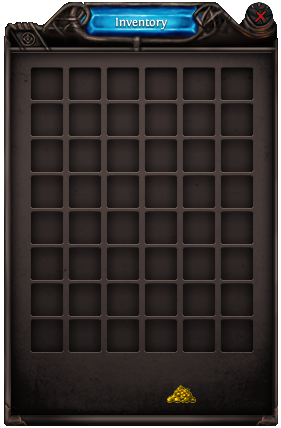
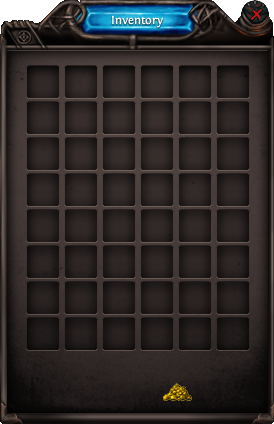
More UI

diff --git a/client/client.js b/client/client.js
@@ -75,6 +75,7 @@ window.onload = window.onresize = function () {
 
     canvas.width = window.innerWidth;
     canvas.height = window.innerHeight;
+    
     WIDTH = window.innerWidth;
     HEIGHT = window.innerHeight;
     chatText.style.width = -2+WIDTH/4;
@@ -154,6 +155,10 @@ Img.bullet = new Image();
 Img.bullet.src = '/client/img/bullet.png';
 Img.bottom = new Image();
 Img.bottom.src = '/client/img/BottomBar.png'
+Img.inventory = new Image();
+Img.inventory.src = '/client/img/Inventory.png'
+Img.spell = new Image();
+Img.spell.src = '/client/img/Spells.png'
 
 Img.map = {};
 Img.map['field'] = new Image();
@@ -481,6 +486,7 @@ socket.on('changeMapOthers', function (data) {
 //#region UI
 
 
+
 var drawUI = function(){
     let ratio = WIDTH/Img.bottom.width*0.5;
     let health = Player.list[selfId].hp/Player.list[selfId].hpMax;
@@ -509,6 +515,8 @@ setInterval(function () {
     drawMap();
     drawScore();
     drawUI();
+    InventoryUI();
+    SpellUI();
     for (var i in Player.list)
         Player.list[i].update();
     for (var i in Bullet.list)
@@ -546,8 +554,21 @@ document.onkeydown = function (event) {
             socket.emit('keyPress', { inputId: 'left', state: true });
         else if (event.keyCode === 87 || event.keyCode === 32) // w
             socket.emit('keyPress', { inputId: 'up', state: true });
-        else if (event.keyCode === 67) // c
-        socket.emit('keyPress', { inputId: 'attack', state: true });
+        else if (event.keyCode === 73) // c
+        {
+            if(document.getElementById("inventoryDiv").style.display == "inline-block")
+            document.getElementById("inventoryDiv").style.display = "none";
+            else
+            document.getElementById("inventoryDiv").style.display = "inline-block";
+        }
+        else if (event.keyCode === 79) // c
+        {
+            if(document.getElementById("spellDiv").style.display == "inline-block")
+            document.getElementById("spellDiv").style.display = "none";
+            else
+            document.getElementById("spellDiv").style.display = "inline-block";
+        }
+
         else if (event.keyCode === 13) {
             if (signedin == false)
             signDivSignIn.onclick();
@@ -574,17 +595,20 @@ document.onkeyup = function (event) {
 
 }
 
-document.onmousedown = function (event) {
+canvas.onmousedown = function (event) {
     socket.emit('keyPress', { inputId: 'attack', state: true });
 }
 document.onmouseup = function (event) {
     socket.emit('keyPress', { inputId: 'attack', state: false });
 }
+
+mousex = 0;
+mousey = 0;
 document.onmousemove = function (event) {
     if (signedin === true) {
-        var x = cam_x - Player.list[selfId].x + event.clientX - 8;
-        var y = cam_y - Player.list[selfId].y + event.clientY - 8;
-        var angle = Math.atan2(y, x) / Math.PI * 180;
+        mousex = cam_x - Player.list[selfId].x + event.clientX - 8;
+        mousey = cam_y - Player.list[selfId].y + event.clientY - 8;
+        var angle = Math.atan2(mousey, mousex) / Math.PI * 180;
         socket.emit('keyPress', { inputId: 'mouseAngle', state: angle });
     }
 }

diff --git a/client/SpellUI.js b/client/SpellUI.js
@@ -1,0 +1,49 @@
+var spell_canvas = document.getElementById("spellCanvas");
+var spellDiv = document.getElementById("spellDiv");
+var hold2_on = false;
+var hold2x = 0;
+var hold2y = 0;
+var spell_x_old = 0;
+var spell_y_old = 0;
+var spell_x = 274;
+var spell_y = 0;
+SpellUI = function(){
+    var ctx_spell = spell_canvas.getContext("2d");
+    ctx_spell.clearRect(0,0,500,500)
+    ctx_spell.drawImage(Img.spell,0,0);
+}
+
+spell_canvas.onmousedown = function (event) {
+    if(event.button == 0)
+    {
+        if(event.clientY < spell_y+50)
+        {
+            if(event.clientX>spell_x+240 && event.clientY < spell_y+25)
+            {
+                spellDiv.style.display = "none";
+            }
+            else
+            {
+            spell_x_old = spell_x;
+            spell_y_old = spell_y;
+            hold2x = event.clientX;
+            hold2y = event.clientY;
+            hold2_on = true;
+            }
+        }
+    }   
+}
+spell_canvas.onmouseup = function (event) {
+    hold2_on = false;
+}
+
+
+document.addEventListener("mousemove",function(event){
+    if(hold2_on == true)
+    {
+        spell_x = spell_x_old + event.clientX - hold2x;
+        spell_canvas.style.left=spell_x;
+        spell_y = spell_y_old + event.clientY - hold2y;
+        spell_canvas.style.top=spell_y;
+    }
+});

diff --git a/client/InventoryUI.js b/client/InventoryUI.js
@@ -1,0 +1,50 @@
+var inv_canvas = document.getElementById("invCanvas");
+var invDiv = document.getElementById("inventoryDiv");
+var hold_on = false;
+var holdx = 0;
+var holdy = 0;
+var inv_x_old = 0;
+var inv_y_old = 0;
+var inv_x = 0;
+var inv_y = 0;
+InventoryUI = function(){
+    var ctx_inv = inv_canvas.getContext("2d");
+    ctx_inv.clearRect(0,0,500,500)
+    ctx_inv.drawImage(Img.inventory,0,0);
+}
+
+inv_canvas.onmousedown = function (event) {
+    if(event.button == 0)
+    {
+        if(event.clientY < inv_y+50)
+        {
+            if(event.clientX>inv_x+240 && event.clientY < inv_y+25)
+            {
+                invDiv.style.display = "none";
+            }
+            else
+            {
+            inv_x_old = inv_x;
+            inv_y_old = inv_y;
+            holdx = event.clientX;
+            holdy = event.clientY;
+            hold_on = true;
+            }
+        }
+    }   
+}
+inv_canvas.onmouseup = function (event) {
+    hold_on = false;
+}
+
+document.addEventListener("mousemove",function(event){
+    if(hold_on == true)
+    {   
+        inv_x = inv_x_old + event.clientX - holdx;
+        inv_canvas.style.left=inv_x;
+        inv_y = inv_y_old + event.clientY - holdy;
+        inv_canvas.style.top=inv_y;
+    }
+})
+
+

diff --git a/client/index.html b/client/index.html
@@ -16,11 +16,10 @@
 </div>
 
 <script src="/client/socket.js"></script>
-<div id="gameDiv" style="display:none;">
+<div id="gameDiv" style="display:none; z-index: -1">
 	<canvas id="ctx" width="50" height="50" style="border:1px solid #000000;"></canvas>
 
 	<div id="chat-text" class="chatText"></div>
-	<div id="inventory"></div>
 	<form id="chat-form">
 		<input id="chat-input" type="text" autocomplete="off" class="chatForm">
 	</form>
@@ -28,7 +27,15 @@
 	<button class="button" style="bottom:15px;right:120px;" id="lockscreen" onclick="Lockscreen();">Lockscreen</button>
 
 </div>
+<div id="inventoryDiv" style="display:none;">
+	<canvas id="invCanvas" width="274" height="424" style="position:absolute; top:0px; left:0px;"></canvas>
+</div>
+<div id="spellDiv" style="display:none;">
+	<canvas id="spellCanvas" width="274" height="424" style="position:absolute; top:0px; left:274px;"></canvas>
+</div>
 <!-- #endregion -->
 	<script src="/client/Inventory.js"></script>
 	<script src="/client/client.js"></script>
+	<script src="/client/InventoryUI.js"></script>
+	<script src="/client/SpellUI.js"></script>
 	

diff --git a/server.js b/server.js
@@ -39,8 +39,6 @@ Player.list = {};
 //#endregion 
 
 
-
-
 //#region Login and Logout
 var isValidPassword = function (data, cb) {
     account.find({ username: data.username, password: data.password }).toArray(function (err, res) {

diff --git a/entity.js b/entity.js
@@ -142,7 +142,6 @@ Entity = function (param) {
 //#endregion
 
 
-
 //#region Player:Entity
 Player = function (param) {
     //#region Player:Initialization
